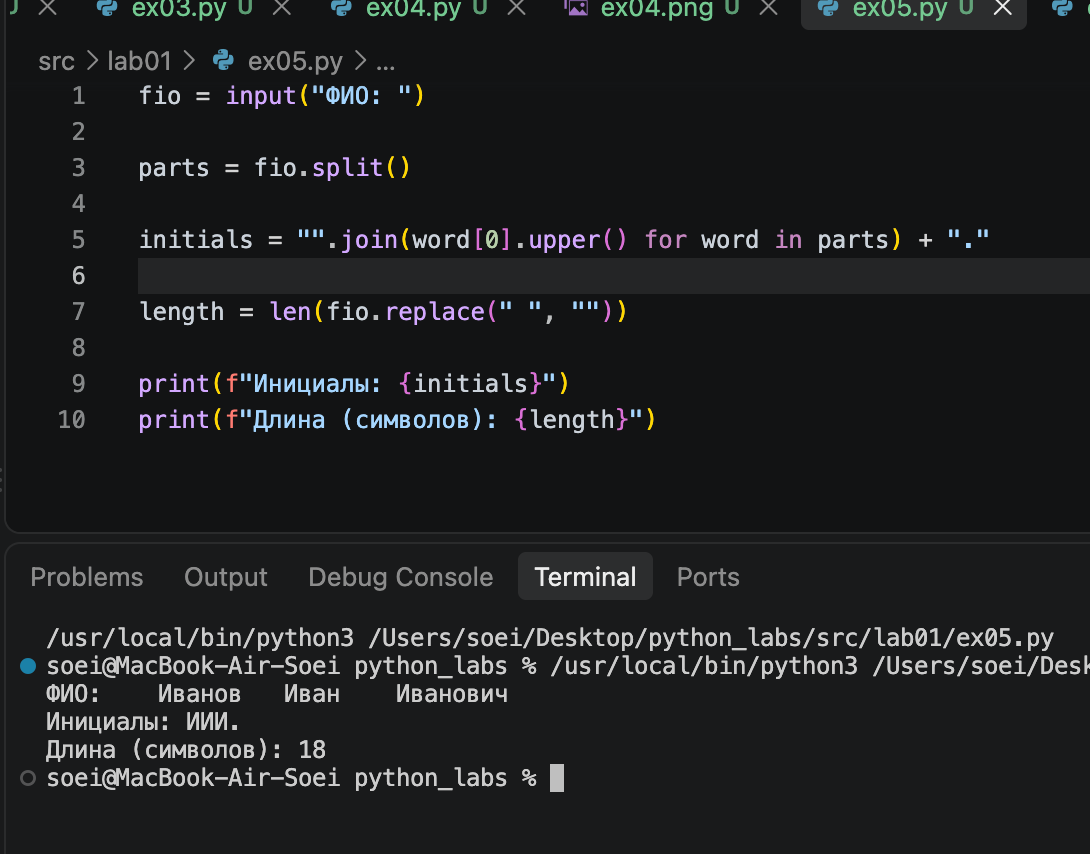
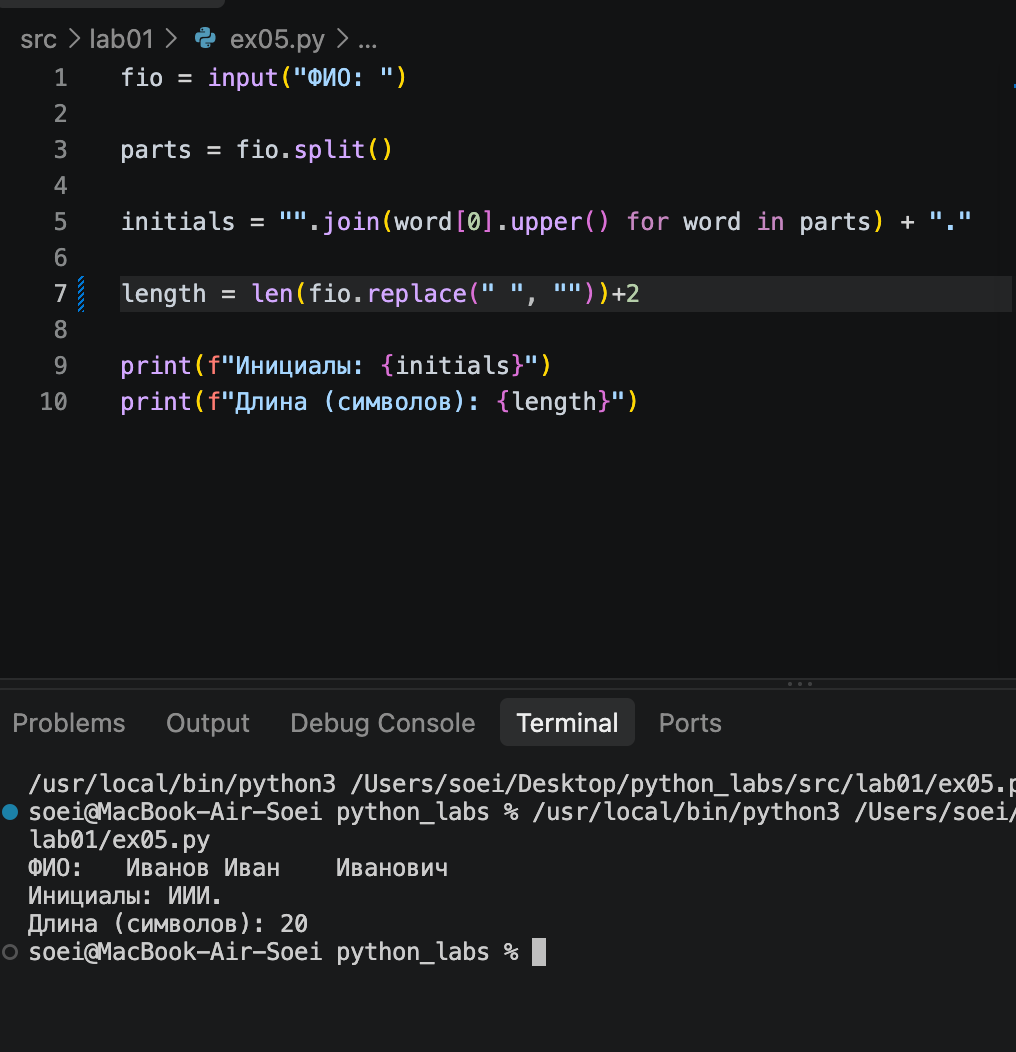
laba

diff --git a/src/lab01/ex05.py b/src/lab01/ex05.py
@@ -4,7 +4,7 @@ parts = fio.split()
 
 initials = "".join(word[0].upper() for word in parts) + "."
 
-length = len(fio.replace(" ", ""))
+length = len(fio.replace(" ", ""))+2
 
 print(f"Инициалы: {initials}")
 print(f"Длина (символов): {length}")
